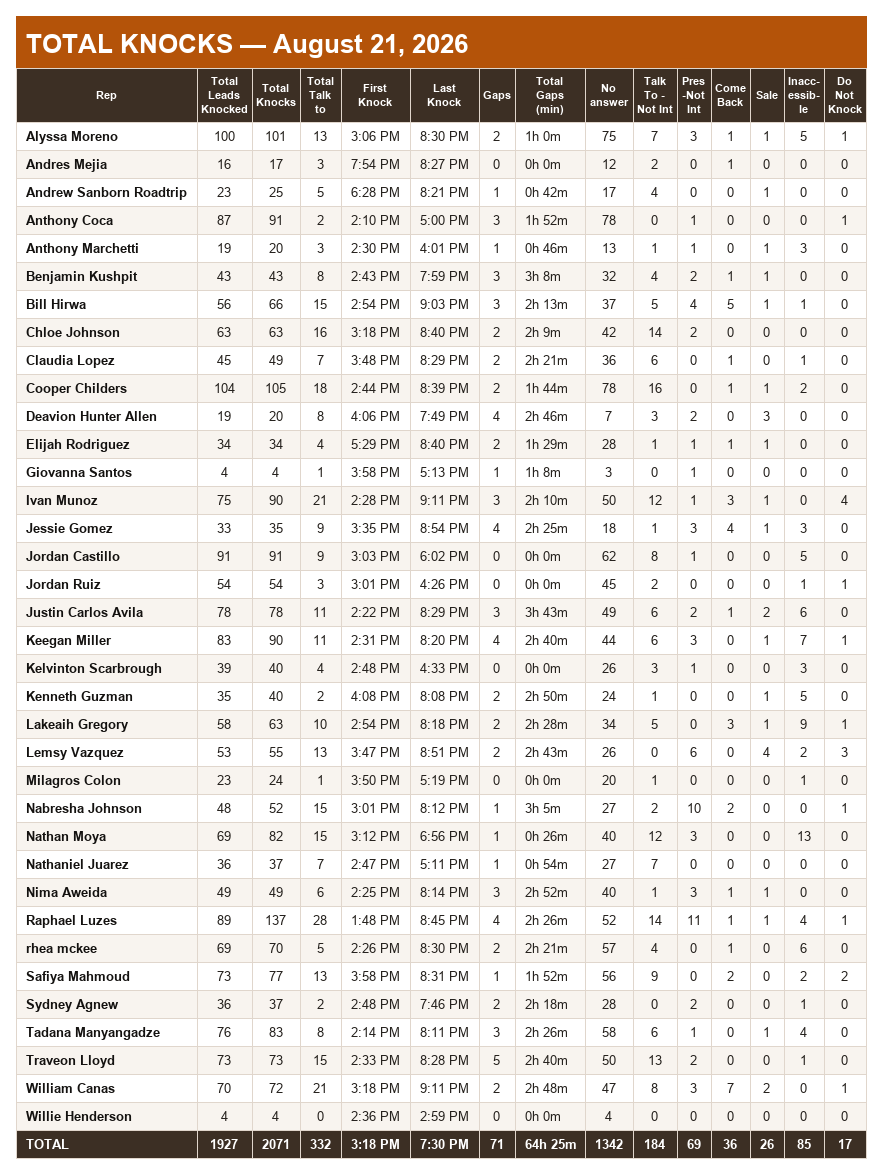
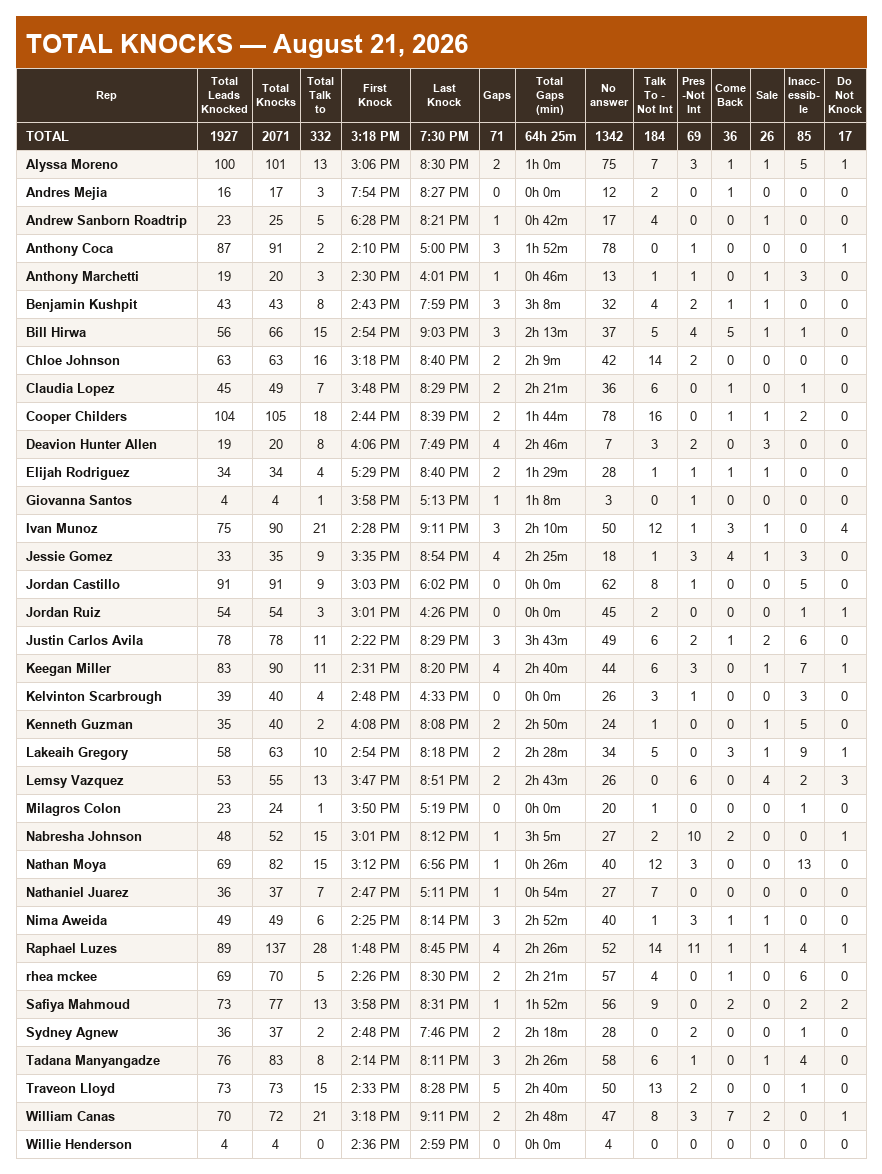
combined knocks board: office TOTAL row moves to the top
- raf (slack 8/22): the totals/averages row now sits right under the
  header instead of at the bottom (_draw grows highlight_first_row
  alongside the dispositions board's highlight_last_row)

diff --git a/automations/total_knocks/render.py b/automations/total_knocks/render.py
@@ -203,7 +203,8 @@ def _wrap_header(probe, text: str, fit_w: int, font) -> list[str]:
 def _draw(header: list[str], rows: list[list[str]], title: str, theme: dict,
           out_path: Path, name_col: int = 1,
           wrap_headers: bool = False,
-          highlight_last_row: bool = False) -> Path:
+          highlight_last_row: bool = False,
+          highlight_first_row: bool = False) -> Path:
     """Generic table → PNG. `name_col` (0-based) is left-aligned + bold.
 
     wrap_headers=False (default): every existing board unchanged — column
@@ -311,7 +312,8 @@ def _draw(header: list[str], rows: list[list[str]], title: str, theme: dict,
 
     y += header_h
     for ri, r in enumerate(rows):
-        is_total = highlight_last_row and ri == len(rows) - 1
+        is_total = ((highlight_last_row and ri == len(rows) - 1)
+                    or (highlight_first_row and ri == 0))
         bg = (theme["header_bg"] if is_total
               else ROW_BG_A if ri % 2 == 0 else theme["stripe"])
         d.rectangle([PAD, y, PAD + table_w, y + ROW_H], fill=bg)
@@ -423,13 +425,15 @@ def render_total_knocks(target: dt.date, *, tab: str = TAB_PROD,
     for r in sub:
         r[tg_pos] = _fmt_hm(r[tg_pos])
     totals[tg_pos] = _fmt_hm(totals[tg_pos])
-    sub.append(totals)
+    # Office row at the TOP, right under the header (Raf 2026-08-22:
+    # "averages of the whole office at the top").
+    sub.insert(0, totals)
     _office = f"{title_suffix.upper()} — " if title_suffix else ""
     disp = [COMBINED_KNOCKS_DISPLAY.get(c, c) for c in COMBINED_KNOCKS_COLUMNS]
     return _draw(disp, sub,
                  f"TOTAL KNOCKS — {_office}{_title_date(target)}",
                  THEME_AMBER, out_dir / f"total_knocks_{target.isoformat()}.png",
-                 name_col=0, wrap_headers=True, highlight_last_row=True)
+                 name_col=0, wrap_headers=True, highlight_first_row=True)
 
 
 def _gap_min(v: str) -> int:
